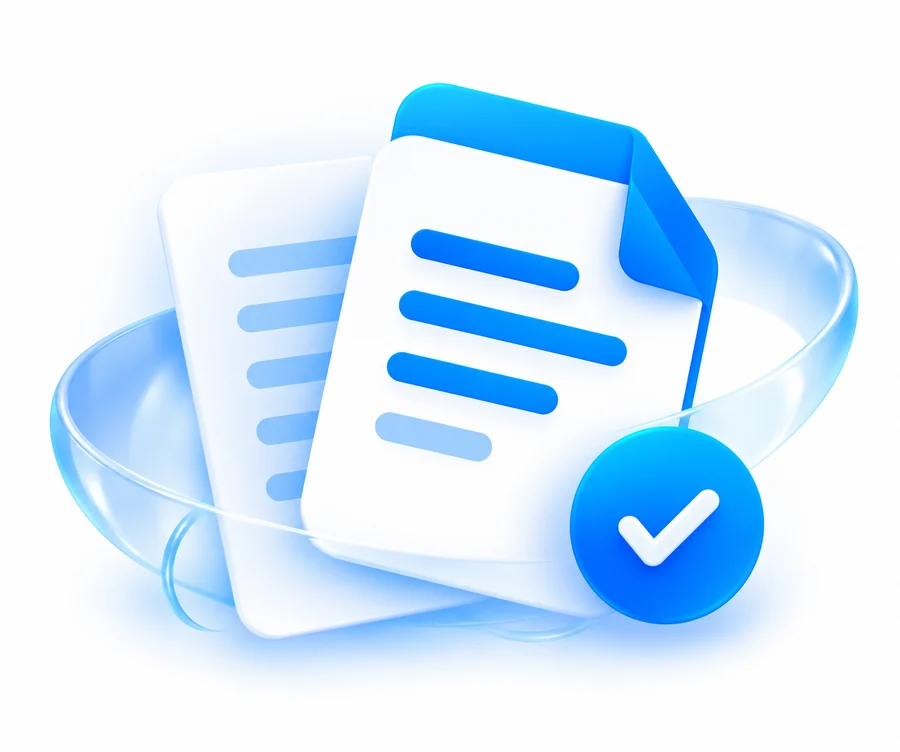
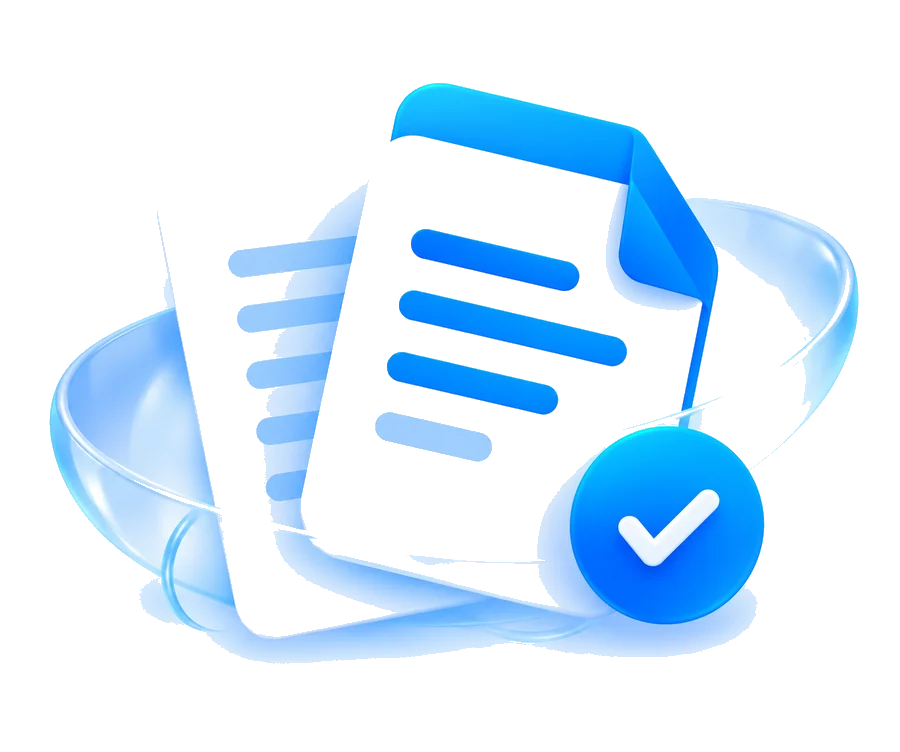
fix: remove auth illustration card background

diff --git a/src/auth/AuthScreen.tsx b/src/auth/AuthScreen.tsx
@@ -42,7 +42,7 @@ function ProductIllustration() {
 
   return (
     <motion.div
-      className="relative mx-auto h-[290px] w-full max-w-[390px] overflow-hidden rounded-[1.5rem] border border-blue-100 bg-gradient-to-br from-blue-50 via-white to-teal-50 shadow-inner sm:h-56 sm:rounded-[2rem] lg:h-64"
+      className="relative mx-auto h-[290px] w-full max-w-[390px] overflow-hidden sm:h-56 lg:h-64"
       initial={shouldReduceMotion ? { opacity: 1 } : { opacity: 0, y: 8 }}
       animate={{ opacity: 1, y: 0 }}
       transition={{ duration: 0.45, ease: 'easeOut' }}
